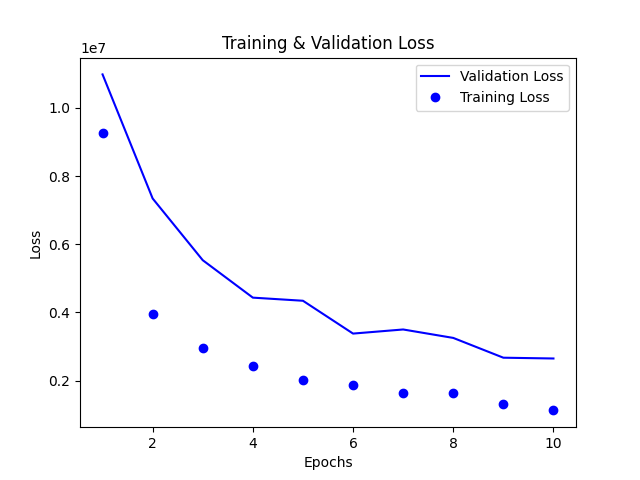
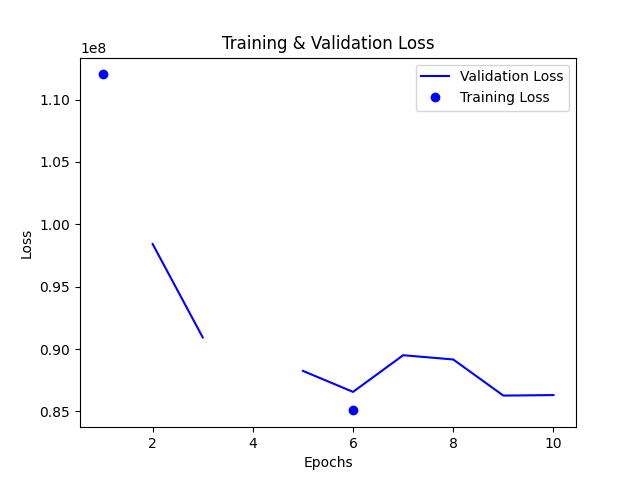
just izotope rx noise for drnn data

diff --git a/brahms_restore_ml/drnn/data.py b/brahms_restore_ml/drnn/data.py
@@ -1,6 +1,11 @@
 from ..audio_data_processing import *
+from ..nmf.basis_vectors import get_basis_vectors
+import numpy as np
+import os
 import random
 import re
+
+bare_noise_path = os.path.dirname(os.path.realpath(__file__)) + '/../../brahms_noise_izotope_rx.wav'
 
 # May try replacing with lambda in the call in train
 def make_gen_callable(_gen):
@@ -33,6 +38,16 @@ def random_slice(min_sig_len, src1_sig, src2_sig=None, mix_sig=None):
 
 def preprocess_signals(piano_sig, noise_sig, min_sig_len, mix_sig=None, 
                                     src_amp_low=0.75, src_amp_high=1.15):
+    # NEW For single noise file - span the whole
+    noise_new_start = None
+    while len(noise_sig) != len(piano_sig):
+        if noise_new_start is None:
+            noise_new_start = random.randint(0, len(noise_sig)-1)
+            noise_sig = np.concatenate((noise_sig[noise_new_start:], noise_sig[:noise_new_start]))
+        noise_sig = np.concatenate((noise_sig, noise_sig))
+        if len(noise_sig) > len(piano_sig):
+            noise_sig = noise_sig[: len(piano_sig)]
+    
     if mix_sig is not None:
         assert len(mix_sig) == len(piano_sig) == len(noise_sig)
         mix_sig = mix_sig.astype('float64')
@@ -100,14 +115,16 @@ def signal_to_nn_features(signal, wdw_size=PIANO_WDW_SIZE, epsilon=EPSILON):
 def nn_data_generator(y1_files, y2_files, num_samples, batch_size, num_seq, num_feat,
                         min_sig_len, dmged_piano_artificial_noise=False,
                         src_amp_low=0.75, src_amp_high=1.15, 
-                        data_path=None, x_files=None, from_numpy=False):
+                        data_path=None, x_files=None, from_numpy=False, bare_noise=True): # new
+    # TEMP - bare_noise enabled by default
 
     while True:
         for offset in range(0, num_samples, batch_size):
             if (x_files is not None) or from_numpy:
                 x_batch_labels = x_files[offset:offset+batch_size]
             y1_batch_labels = y1_files[offset:offset+batch_size]
-            y2_batch_labels = y2_files[offset:offset+batch_size]
+            if (not bare_noise) and (not from_numpy):
+                y2_batch_labels = y2_files[offset:offset+batch_size]
             if (num_samples / batch_size == 0):
                 actual_batch_size = batch_size
                 x, y1, y2 = (np.empty((batch_size, num_seq, num_feat)).astype('float32'),
@@ -129,7 +146,7 @@ def nn_data_generator(y1_files, y2_files, num_samples, batch_size, num_seq, num_
                     noise_spgm = np.load(nl_filepath, allow_pickle=True)
                 else:
                     pl_filepath = y1_batch_labels[i]
-                    nl_filepath = y2_batch_labels[i]
+                    nl_filepath = bare_noise_path if bare_noise else y2_batch_labels[i]
                     _, piano_label_sig = wavfile.read(pl_filepath)
                     _, noise_label_sig = wavfile.read(nl_filepath)
                     if x_files is not None:

diff --git a/restore_with_drnn.py b/restore_with_drnn.py
@@ -20,7 +20,9 @@ def run_top_gs_result(num, best_config,
                       brahms_path, combos_str, data_path=None, min_sig_len=None):
     train_batch_size = best_config['batch_size']
     # # Temp test for LSTM -> until can grid search
-    # train_batch_size = 3
+    # train_batch_size = 3 if train_batch_size < 3 else train_batch_size
+    # TEMP - until F35 back up, make managable for PC
+    train_batch_size = 6
     train_loss_const = best_config['gamma']
     train_epochs = best_config['epochs']
     train_opt_name = best_config['optimizer']
@@ -116,13 +118,15 @@ def main():
     mode = sys.argv[1] 
     pc_run = True if (sys.argv[2].lower() == 'true') else False
     # Differentiate PC GS from F35 GS
-    dmged_piano_artificial_noise_mix = True if pc_run else False
+    # dmged_piano_artificial_noise_mix = True if pc_run else False
+    dmged_piano_artificial_noise_mix = False    # TEMP while F35 down
     test_on_synthetic = False
-    wdw_size = PIANO_WDW_SIZE
+    # wdw_size = PIANO_WDW_SIZE
     data_path = 'brahms_restore_ml/drnn/drnn_data/'
     arch_config_path = 'brahms_restore_ml/drnn/config/'
     gs_output_path = 'brahms_restore_ml/drnn/output_grid_search/'           # PC
     # gs_output_path = 'brahms_restore_ml/drnn/output_grid_search_lstm/'    # F35
+    # gs_output_path = 'brahms_restore_ml/drnn/output_grid_search_wb/'        # best results      
     recent_model_path = 'brahms_restore_ml/drnn/recent_model'
     infer_output_path = 'brahms_restore_ml/drnn/output_restore/'
     brahms_path = 'brahms.wav'
@@ -284,6 +288,7 @@ def main():
                         _ = gs_result_file.readline()
                     best_config = json.loads(gs_result_file.readline())
                     # Temp test for LSTM -> until can grid search
+                    # # TEMP - until F35 back up, make managable for PC
                     # if (len(best_config['layers']) < 4) or (len(best_config['layers']) == 4 and best_config['layers'][0]['type'] == 'Dense'):
                     run_top_gs_result(num, best_config, 
                     # TRAIN_MEAN, TRAIN_STD, 

diff --git a/brahms_restore_ml/drnn/model.py b/brahms_restore_ml/drnn/model.py
@@ -1,6 +1,10 @@
 import tensorflow as tf
 from tensorflow.keras.layers import Input, SimpleRNN, Dense, TimeDistributed, Layer, LSTM, Bidirectional, BatchNormalization, Concatenate
 from tensorflow.keras.models import Model
+# from ..nmf.basis_vectors import get_basis_vectors
+# from ..audio_data_processing import PIANO_WDW_SIZE
+# import numpy as np
+# import os
 
 class Standardize(Layer):
     def __init__(self, mean, std, **kwargs):
@@ -75,11 +79,22 @@ def make_model(features, sequences, name='Model', epsilon=10 ** (-10),
                     # test=16, 
                     test=0):#, 
                     # pc_run=False):
+
+    # Must pass in basis vectors w/ audio data!!!
+    # piano_basis_vectors = get_basis_vectors(PIANO_WDW_SIZE, ova=True, avg=True, debug=False, a430hz=True, 
+    #     score=True, filepath=os.path.dirname(os.path.realpath(__file__)) + '/../nmf/np_saves_bv/basis_vectors')
+    # # piano_basis_vectors = np.expand_dims(piano_basis_vectors, axis=0)   # Give a samples dimension (1 sample)
+    # piano_basis_vectors = piano_basis_vectors[batch_size, :, :]   # Give a samples dimension (1 sample)
+    # # piano_bvs_tensor = tf.convert_to_tensor(piano_basis_vectors, dtype=tf.float32)
+    # # piano_bvs_tensor = tf.expand_dims(piano_bvs_tensor, 0)
+
     # TEST FLOAT16
     # MIXED PRECISION
     input_layer = Input(shape=(sequences, features), name='piano_noise_mixed')
     # input_layer = Input(shape=(sequences, features), dtype='float16', 
     #                     name='piano_noise_mixed')
+
+    # input_layer = Concatenate() ([piano_basis_vectors, input_layer])
 
     if config is not None:
         num_layers = len(config['layers'])

diff --git a/brahms_restore_ml/nmf/basis_vectors.py b/brahms_restore_ml/nmf/basis_vectors.py
@@ -132,14 +132,15 @@ def make_basis_vectors(wdw_size, filepath, ova=False, avg=False, mary_flag=False
 # W LOGIC
 # Basis vectors in essence are the "best" dft of a sound w/ constant pitch (distinct freq signature)
 def get_basis_vectors(wdw_size, ova=False, mary=False, noise=False, avg=False, debug=False, precise_noise=False, eq=False, 
-                      num_noise=0, noise_start=6, noise_stop=25, randomize='None', a430hz=False, score=False, audible_range=False):
+                      num_noise=0, noise_start=6, noise_stop=25, randomize='None', a430hz=False, score=False, audible_range=False,
+                      filepath=os.path.dirname(os.path.realpath(__file__)) + '/np_saves_bv/basis_vectors'):
     if randomize == 'Piano':
         # Piano basis vectors are random for semisupervised learn piano
         basis_vectors = np.random.rand(nmf.NUM_PIANO_NOTES, (wdw_size//2) + 1)
     else:
         # Save/load basis vectors (w/o noise) to/from numpy files
-        real_currdir = os.path.dirname(os.path.realpath(__file__))
-        filepath = real_currdir + '/np_saves_bv/basis_vectors'
+        # real_currdir = os.path.dirname(os.path.realpath(__file__))
+        # filepath = real_currdir + '/np_saves_bv/basis_vectors'
         if mary:
             filepath += '_mary'
         if ova:

diff --git a/brahms_restore_ml/drnn/drnn.py b/brahms_restore_ml/drnn/drnn.py
@@ -653,7 +653,8 @@ def restore_with_drnn(output_path, recent_model_path,
         print('Restoring audio of file:', test_filepath)
         test_sr, test_sig = wavfile.read(test_filepath)
     test_sig_type = test_sig.dtype
-    test_sig = random_slice(min_sig_len, test_sig)
+    # TEMP - slice doesn't work yet
+    # test_sig = random_slice(min_sig_len, test_sig)
     # Spectrogram creation - test. Only use phases of test
     test_spgm, test_phases = make_spectrogram(test_sig, wdw_size, epsilon, ova=True, debug=False)
 
